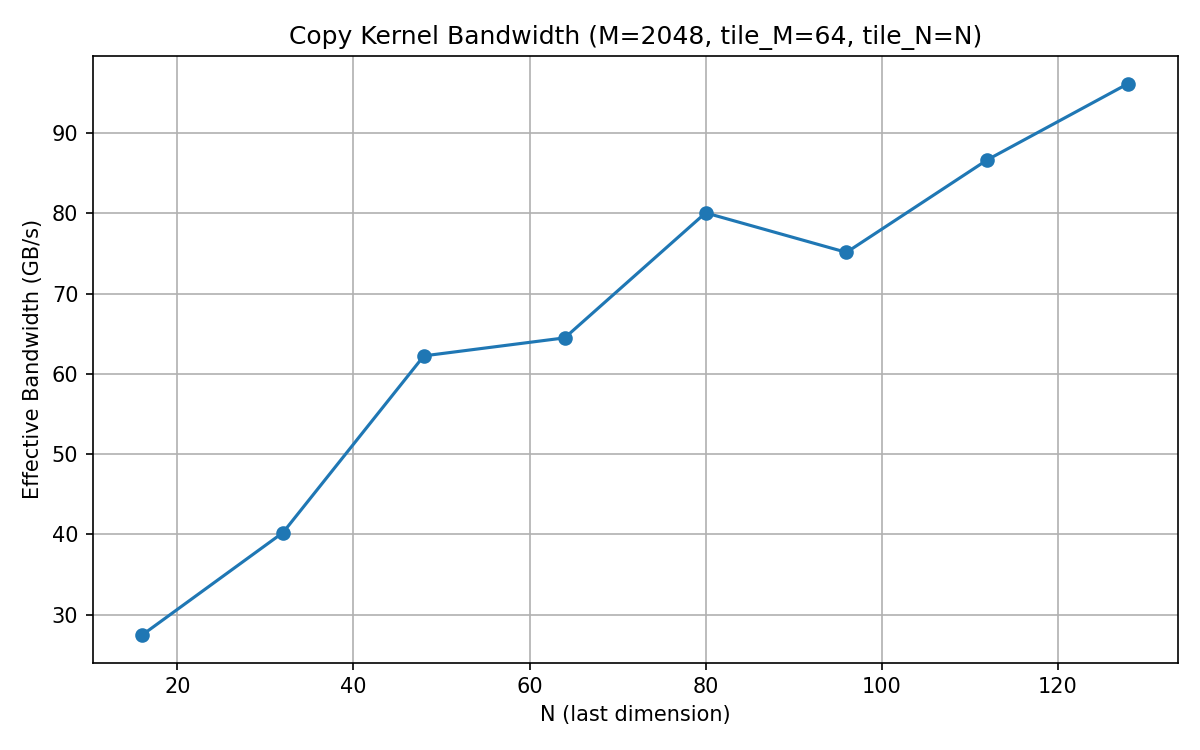
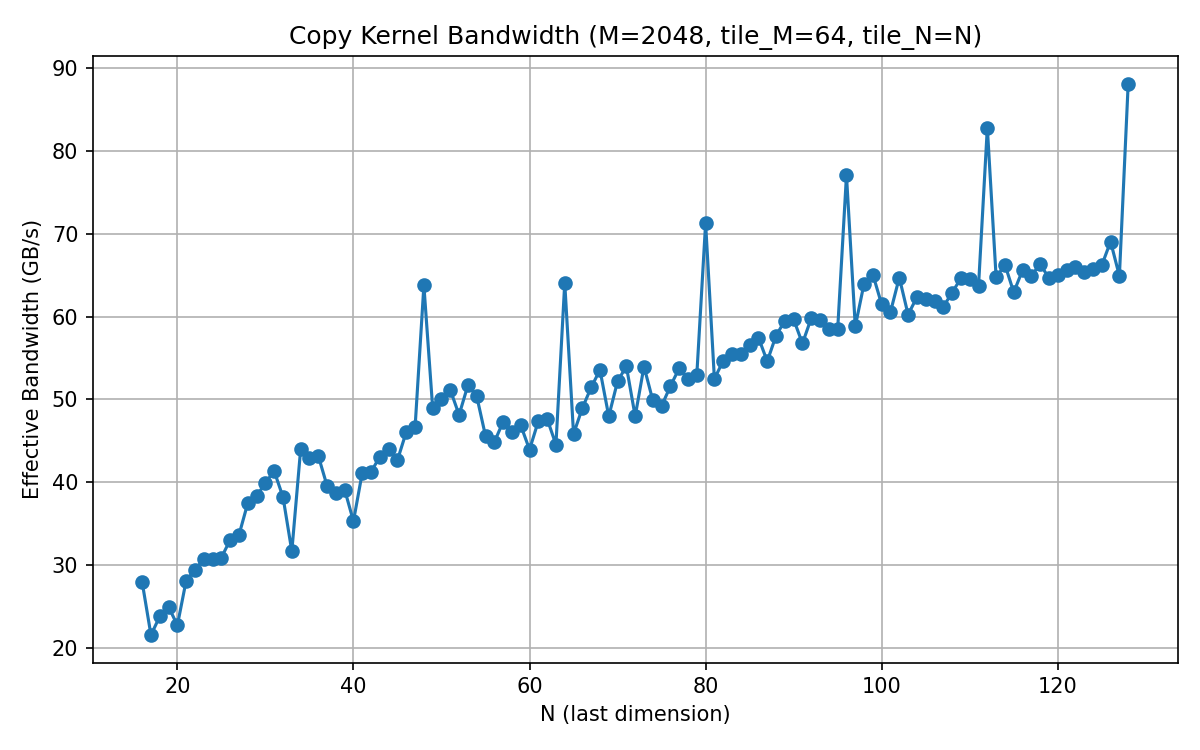
fix assignment 2

diff --git a/assignments/02_assignment/src/task_04.py b/assignments/02_assignment/src/task_04.py
@@ -85,7 +85,7 @@ def verify():
 
 def bandwidth_benchmark():
     """
-    M=2048 fixed, N from 16 to 128 (step 16).
+    M=2048 fixed, N from 16 to 128 (step 1, volle Range).
     tile_M=64, tile_N=N (full width).
 
     bandwidth (GB/s) = 2 * M * N * sizeof(element) / (time_s * 1e9)
@@ -99,7 +99,7 @@ def bandwidth_benchmark():
     tile_m = 64
     element_size = 2                          # FP16 = 2 Bytes
 
-    ns = list(range(16, 129, 16))             # [16, 32, 48, …, 128]
+    ns = list(range(16, 129))                 # [16, 17, 18, …, 128] – ganze Range
     bandwidths = []
 
     for N in ns:
@@ -139,17 +139,17 @@ if __name__ == "__main__":
     print("Task 4b: Bandwidth Benchmark")
     bandwidth_benchmark()
 
-"""Ergebnisse
+"""Ergebnisse (volle Range N=16..128, Schritt 1 -> 113 Messpunkte;
+repräsentativer Auszug: Peaks an Zweierpotenzen + Einbrüche bei 2^+1)
 Task 4a: Copy Kernel — Verification
   Copy kernel verified.
 Task 4b: Bandwidth Benchmark
-  N=  16  time=0.0048 ms  BW=27.48 GB/s
-  N=  32  time=0.0065 ms  BW=40.24 GB/s
-  N=  48  time=0.0063 ms  BW=62.25 GB/s
-  N=  64  time=0.0081 ms  BW=64.49 GB/s
-  N=  80  time=0.0082 ms  BW=80.06 GB/s
-  N=  96  time=0.0105 ms  BW=75.14 GB/s
-  N= 112  time=0.0106 ms  BW=86.67 GB/s
-  N= 128  time=0.0109 ms  BW=96.17 GB/s
+  N=  16  time=0.0047 ms  BW=27.91 GB/s   (2er-Potenz, kein Padding)
+  N=  17  time=0.0065 ms  BW=21.52 GB/s   (tile_N 16->32, ~1/2 Padding)
+  N=  32  time=0.0069 ms  BW=38.18 GB/s   (2er-Potenz)
+  N=  33  time=0.0085 ms  BW=31.65 GB/s   (tile_N 32->64)
+  N=  64  time=0.0082 ms  BW=64.06 GB/s   (2er-Potenz)
+  N=  65  time=0.0116 ms  BW=45.81 GB/s   (tile_N 64->128)
+  N= 128  time=0.0119 ms  BW=88.15 GB/s   (2er-Potenz, kein Padding)
   Plot saved to bandwidth_plot.png
   """

diff --git a/sphinx/source/chapters/02_gpu_architecture_and_cutile/loesung.rst b/sphinx/source/chapters/02_gpu_architecture_and_cutile/loesung.rst
@@ -268,8 +268,11 @@ aufeinanderfolgende ``L``-Elemente direkt nebeneinander; dann kommen die
 * **Variante 2** tiled über ``(M, N)`` – die äußeren Dimensionen. Für eine
   feste ``(k, l)``-Position sind die ``M × N``-Elemente im Speicher mit
   einem Stride von ``K × L`` verteilt. Diese nicht-zusammenhängenden Zugriffe
-  können nicht gecached werden und führen zu vielen separaten Speichertransaktionen
-  (uncoalesced accesses), was den Durchsatz erheblich reduziert.
+  kann die Hardware nicht zu wenigen breiten Speichertransaktionen
+  **zusammenfassen** (kein Coalescing): Die Zugriffe laufen zwar weiterhin über
+  den L1-/L2-Cache, ein Warp löst aber statt weniger breiter viele kleine
+  Transaktionen aus. Das senkt die Bus-Auslastung und damit den Durchsatz
+  erheblich (uncoalesced accesses).
 
 Task 4: Benchmarking Bandwidth
 ==============================
@@ -331,58 +334,92 @@ Verifikation
 Erkenntnisse: Bandwidth-Messungen
 -----------------------------------
 
-Gemessene Werte (M=2048, tile_M=64, tile_N=N, FP16):
+Gemessen wurde die **volle Range** ``N = 16 … 128`` (Schrittweite 1, also 113
+Messpunkte; M=2048, tile_M=64, tile_N=N, FP16). Die folgende Tabelle zeigt
+repräsentative Punkte: jeweils die Zweierpotenzen (lokaler Peak, kein Padding)
+und den direkt darauffolgenden Wert (Einbruch, weil sich ``tile_N`` verdoppelt):
 
 .. list-table::
    :header-rows: 1
-   :widths: 15 25 25
+   :widths: 10 20 20 20 30
 
    * - N
+     - tile_N (2er-Potenz)
      - Laufzeit (ms)
      - Bandbreite (GB/s)
+     - Charakter
    * - 16
-     - 0,0048
-     - 27,48
-   * - 32
+     - 16
+     - 0,0047
+     - 27,9
+     - Zweierpotenz, kein Padding (Peak)
+   * - 17
+     - 32
      - 0,0065
-     - 40,24
-   * - 48
-     - 0,0063
-     - 62,25
+     - 21,5
+     - ``tile_N`` verdoppelt → ~½ Padding (Einbruch)
+   * - 32
+     - 32
+     - 0,0069
+     - 38,2
+     - Zweierpotenz (Peak)
+   * - 33
+     - 64
+     - 0,0085
+     - 31,7
+     - ``tile_N`` verdoppelt → Einbruch
    * - 64
-     - 0,0081
-     - 64,49
-   * - 80
+     - 64
      - 0,0082
-     - 80,06
-   * - 96
-     - 0,0105
-     - 75,14
-   * - 112
-     - 0,0106
-     - 86,67
+     - 64,1
+     - Zweierpotenz (Peak)
+   * - 65
+     - 128
+     - 0,0116
+     - 45,8
+     - ``tile_N`` verdoppelt → Einbruch
    * - 128
-     - 0,0109
-     - 96,17
+     - 128
+     - 0,0119
+     - 88,2
+     - Zweierpotenz, kein Padding (Peak)
 
 .. figure:: ../../../../assignments/02_assignment/bandwidth_plot.png
    :align: center
-   :alt: Effective Bandwidth vs. N
+   :alt: Effective Bandwidth vs. N über die volle Range N=16…128
 
-   Effektive Speicherbandbreite des Copy-Kernels in Abhängigkeit von N.
+   Effektive Speicherbandbreite des Copy-Kernels über die volle Range
+   ``N = 16 … 128`` (Schrittweite 1). Deutlich sichtbar ist das Sägezahn-Muster.
 
 **Beobachtungen:**
 
-* Die Bandbreite steigt von 27 GB/s (N=16) auf 96 GB/s (N=128) mit
-  wachsendem N, weil größere Tiles den Overhead pro Speichertransaktion
-  amortisieren und der Speicherbus besser ausgelastet wird.
-* Bei N=96 (nicht Zweierpotenz) sinkt die Bandbreite leicht gegenüber N=80,
-  da ``tile_N`` auf 128 aufgerundet wird. Die 32 zusätzlichen Padding-Elemente
-  pro Zeile werden geladen und gespeichert, tragen aber nicht zur nützlichen
-  Datenmenge bei, was die effektive Bandbreite drückt.
-* Die höchste gemessene Bandbreite (≈ 96 GB/s bei N=128) entspricht einem
-  Bruchteil der theoretischen Spitzenbandbreite des DGX Spark, was zeigt,
-  dass einfache Copy-Workloads noch nicht den Speicher sättigen.
+* **Grundtrend:** Über die gesamte Range steigt die effektive Bandbreite mit
+  wachsendem N (von ≈ 22 GB/s am unteren Ende auf ≈ 88 GB/s bei N=128), weil
+  breitere zusammenhängende Transfers den Overhead pro Speichertransaktion
+  besser amortisieren und den Speicherbus höher auslasten.
+* **Sägezahn durch Padding:** Der Kernel rundet ``tile_N`` auf die nächste
+  Zweierpotenz auf. Innerhalb eines Bandes (z. B. ``33 ≤ N ≤ 64`` mit
+  ``tile_N = 64``) wächst der Nutzanteil ``N / tile_N`` mit N, sodass die
+  effektive Bandbreite ansteigt und an der Zweierpotenz ihr lokales Maximum
+  erreicht (kein Padding). Beim nächsten Schritt (``N → N+1``) verdoppelt sich
+  ``tile_N``, und fast die Hälfte des geladenen und gespeicherten Tiles ist
+  Padding, das nicht zur Nutzdatenmenge zählt. Genau dort bricht die effektive
+  Bandbreite scharf ein – am deutlichsten bei ``N = 17, 33, 65`` (direkt über
+  den Zweierpotenzen 16, 32, 64). Erst die volle Range macht dieses Muster
+  sichtbar; eine grobe 16er-Abtastung würde daran vorbeimessen.
+* **Sekundär-Spitzen an Vielfachen von 16:** Dem Grundtrend überlagert zeigt
+  der Plot zusätzlich regelmäßige Spitzen bei Vielfachen von 16 (``N = 48, 80,
+  96, 112``); bei ``N = 48`` wird z. B. fast derselbe Wert wie am Band-Peak
+  ``N = 64`` erreicht. Ursache ist die Ausrichtung an der Transaktions-
+  Granularität: Bei FP16 (2 Byte) entspricht ein Vielfaches von 16 Elementen
+  genau einer 32-Byte-Grenze, sodass jede Zeile sauber am Speicher-Sektor
+  ausgerichtet beginnt und weniger Teil-Transaktionen anfallen. Zwischen diesen
+  Vielfachen driften die Zeilenanfänge aus der Ausrichtung, was ein paar
+  Prozent Bandbreite kostet.
+* **Absolutwerte:** Die höchste gemessene Bandbreite (≈ 88 GB/s bei N=128) ist
+  nur ein Bruchteil der theoretischen Spitzenbandbreite des DGX Spark – ein
+  einfacher Copy-Workload mit schmalen Tiles sättigt den Speicher also noch
+  nicht.
 
 Verifikation – Gesamtübersicht
 ===============================
@@ -416,9 +453,9 @@ Verifikation – Gesamtübersicht
      - ``torch.equal``
      - ✓ exakte Kopie
    * - 4b
-     - Bandwidth-Sweep N=16…128
+     - Bandwidth-Sweep N=16…128 (Schritt 1, 113 Punkte)
      - —
-     - 27–96 GB/s, steigend
+     - ≈ 22–88 GB/s, steigend (Sägezahn durch Padding)
 
 Beiträge
 =========

diff --git a/sphinx/source/chapters/02_gpu_architecture_and_cutile/index.rst b/sphinx/source/chapters/02_gpu_architecture_and_cutile/index.rst
@@ -14,4 +14,3 @@ zu Bandbreiten-Benchmarks.
 
    aufgabe
    loesung
-   feedback
